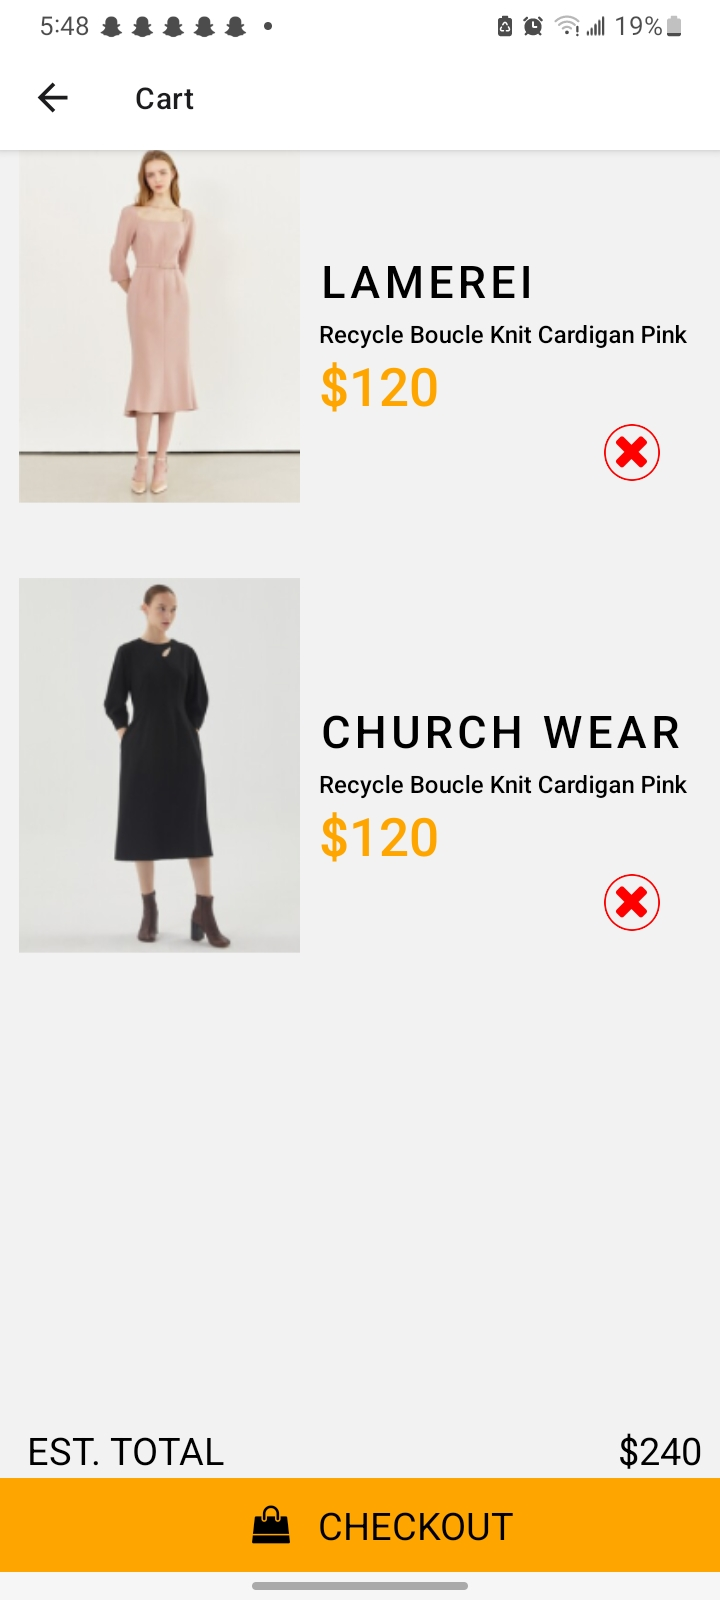
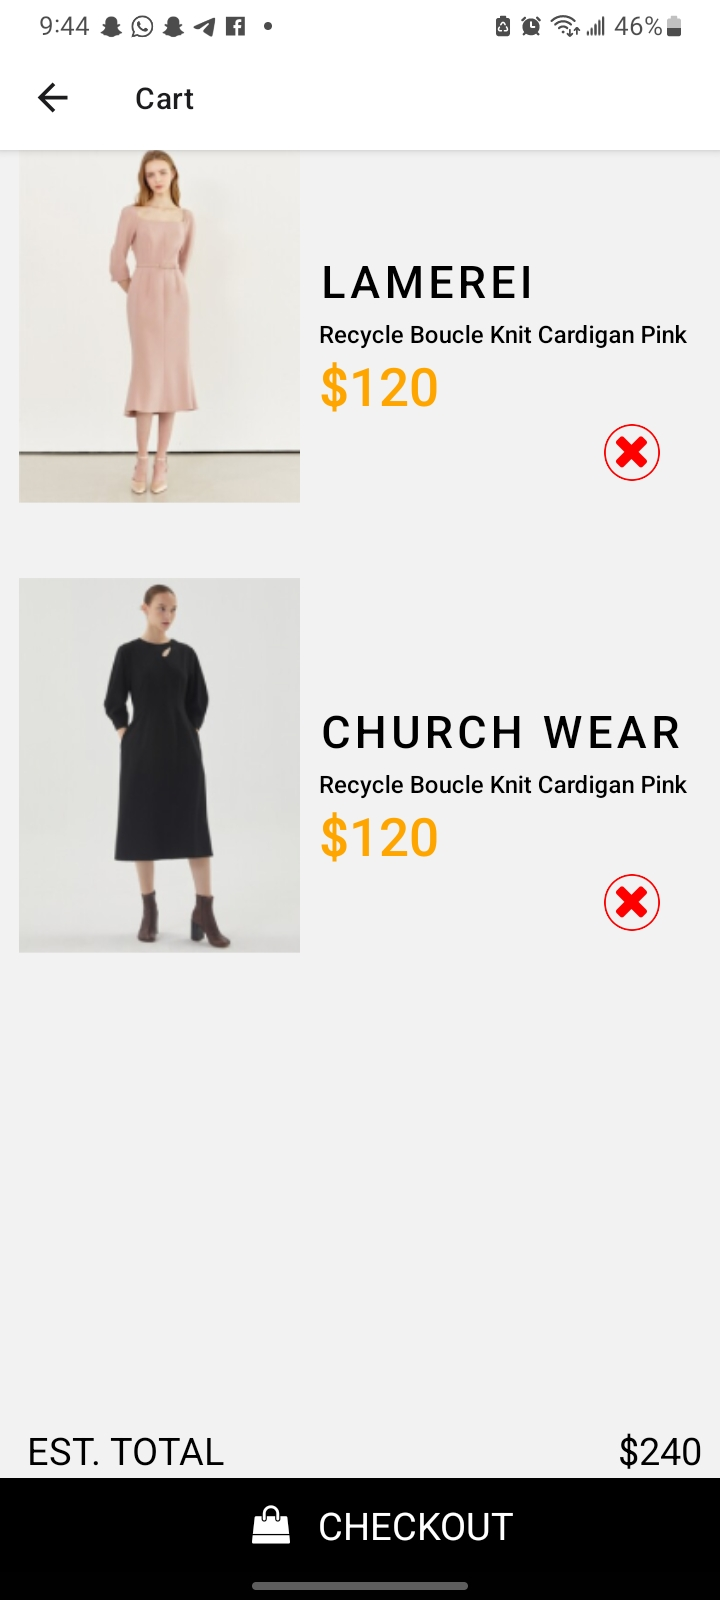
New Additions

diff --git a/MyApp/HomeScreen.js b/MyApp/HomeScreen.js
@@ -115,19 +115,12 @@ export default function HomeScreen() {
     <Icon style={{ top:8, opacity:0.7}} name="list" size={25} color="black"  />
     </View>
     </TouchableOpacity>
-    {isListVisible && (
-                <View style={styles.ListCon}>
-                    <Text>Office Wear</Text>
-                    <Text>Church wear</Text>
-                    <Text>Lamerei</Text>
-                    <Text>21WN...</Text>
-                </View>
-            )}
+    
     <View style={styles.filterCon}>
         <Icon style={{top:8}} name="filter" size={25} color="orange"  />
     </View>
 </View>
- <View style={styles.itemsContainer}>
+{!isListVisible && (<View style={styles.itemsContainer}>
                 {sampleItems.map(item => (
                     <View key={item.id} style={styles.item}>
                         <Image style={{ height: 230, width: 170, marginTop:30, }} source={item.image} />
@@ -142,6 +135,7 @@ export default function HomeScreen() {
                     </View> 
                 ))}
             </View>
+            )}
 </ScrollView>
         
     );

diff --git a/MyApp/CartScreen.js b/MyApp/CartScreen.js
@@ -66,8 +66,8 @@ export default function CartScreen() {
         <View style={styles.footer}>
             <Text style={{fontSize: 25, bottom: 40, right: 30}}>EST. TOTAL</Text>
             <Text style={{fontSize: 25, bottom: 40, right: 10, left:180}}>$240</Text>
-            <Icon style={{marginRight:20, right:60 }} name="shopping-bag" size={20} color="black"  />
-            <Text style={{fontSize:25, right: 65}}>CHECKOUT</Text>
+            <Icon style={{marginRight:20, right:60 }} name="shopping-bag" size={20} color="white"  />
+            <Text style={{fontSize:25, right: 65, color: 'white'}}>CHECKOUT</Text>
         </View>
 
         </View>
@@ -107,7 +107,7 @@ const styles = StyleSheet.create({
         flexDirection: 'row',
         marginTop: 250,
         height: 50,
-        backgroundColor: 'orange',
+        backgroundColor: 'black',
         justifyContent: 'center',
         alignItems: 'center',
     },
